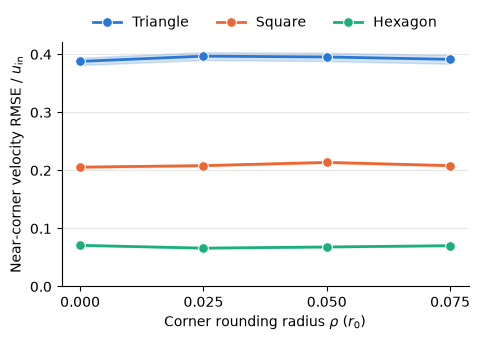
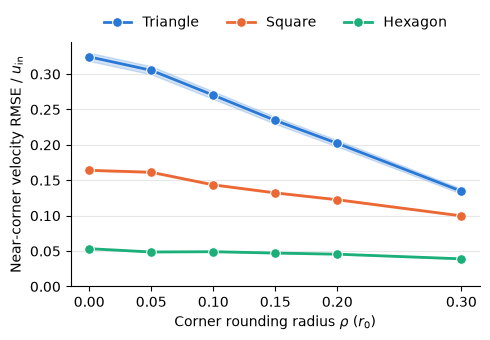
Fix corner region, add rounding-sensitivity analysis and figures
- evaluate.py: anchor the corner region to the sharp polygon's vertices
  (CORNER_R 0.5 r0) and keep only cells fluid for every rho, so all rho
  are scored on identical cells; fix lobed grids being taken for polygon
  grids (they also save phi)
- rounding_sensitivity.py: SDF change (native vs 32x64 branch), true flow
  change, prediction change and true/predicted alignment vs rho
- plotting.py: plot_rounding_sensitivity
- docs: issues log #11, #12, #14 and corner-rounding results
- figures: corner RMSE, shape preview and rounding sensitivity

diff --git a/scripts/rounding_sensitivity.py b/scripts/rounding_sensitivity.py
@@ -1,0 +1,115 @@
+"""How far each rounded polygon is from its sharp (rho = 0) counterpart, per shape:
+
+- sdf_native, sdf_branch: ||z_rho - z_0||_2 of the SDF (r0 units) at the native crop
+  resolution and at the branch resolution the model sees (downsample_sdf). Each is
+  weighted by pixel area (r0^2), so both approximate the same continuous L2 norm
+  and can be compared.
+- flow_change: RMSE / u_in of the true LBM velocity between the two shapes.
+- pred_change: RMSE / u_in of the model's predicted velocity between the two shapes.
+- alignment: cosine similarity <dq, dq_hat> / (|dq| |dq_hat|) between the true velocity
+  change dq = q_rho - q_0 and the predicted change dq_hat; 1 = the model responds in
+  the right direction, 0 = unrelated, -1 = opposite. NaN at rho = 0 (no change).
+
+The flow and prediction changes use the same fixed corner region as vel_corner_rmse
+(scripts.evaluate.corner_mask). Writes data/eval/<dataset>_rounding.csv, one row per
+seed and shape (the SDF and flow columns do not depend on the seed).
+"""
+
+import argparse
+import json
+from pathlib import Path
+
+import numpy as np
+import pandas as pd
+import torch
+
+from operator_ood_flow.model import DeepONet
+from operator_ood_flow.preprocessing import downsample_sdf, load_data
+from scripts.evaluate import corner_mask
+
+ROOT = Path(__file__).resolve().parent.parent
+
+
+def rounding_sensitivity(dataset, seeds=(0, 123, 456, 789, 2026), out=None):
+    path = ROOT / "data" / dataset
+    sdf, masks, fields, coords = load_data(path)
+    with open(str(path) + ".json") as f:
+        u_in = json.load(f)["u_in"]
+    with np.load(str(path) + ".npz") as d:
+        sides, rho, phi = d["sides"].astype(int), d["rho"], d["phi"]
+    C = corner_mask(path, coords, masks)
+    N, H, W = masks.shape
+    vel_true = fields.reshape(N, -1, 3)[..., :2]
+
+    # index of the sharp counterpart (same sides and orientation, rho = 0) of each shape
+    sharp = {(n, ph): i for i, (n, ph, r) in enumerate(zip(sides, phi, rho)) if r == 0}
+    i0 = np.array([sharp[(n, ph)] for n, ph in zip(sides, phi)])
+
+    def rmse(a, b, region):  # velocity RMSE / u_in over each shape's corner region
+        return np.array([
+            np.sqrt(((a[i, region[i]] - b[i, region[i]]) ** 2).sum(-1).mean()) / u_in
+            for i in range(N)
+        ])
+
+    def cosine(a, b, region):  # alignment of two velocity changes over the corner region
+        out = np.full(N, np.nan)
+        for i in range(N):
+            x, y = a[i, region[i]].ravel(), b[i, region[i]].ravel()
+            norm = np.linalg.norm(x) * np.linalg.norm(y)
+            if norm > 0:
+                out[i] = x @ y / norm
+        return out
+
+    rows = []
+    for seed in seeds:
+        ckpt = torch.load(
+            ROOT / "checkpoints" / f"seed{seed}" / "best.pt",
+            map_location="cpu",
+            weights_only=False,
+        )
+        model = DeepONet(**ckpt["model_cfg"])
+        model.load_state_dict(ckpt["model"])
+        model.eval()
+        res = tuple(ckpt["data_cfg"]["sdf_res"])
+        X = downsample_sdf(sdf, res)
+        with torch.no_grad():
+            pred = (model(X, torch.tensor(coords)) * ckpt["std"] + ckpt["mean"]).numpy()
+
+        z = sdf.reshape(N, -1)
+        sdf_native = np.linalg.norm(z - z[i0], axis=1) * np.sqrt(5 / H * 10 / W)
+        sdf_branch = np.linalg.norm(
+            (X - X[i0]).numpy(), axis=1
+        ) * np.sqrt(5 / res[0] * 10 / res[1])  # crop is 5 r0 x 10 r0
+        rows.append(pd.DataFrame({
+            "seed": seed,
+            "index": np.arange(N),
+            "sides": sides,
+            "rho": rho,
+            "phi": phi,
+            "sdf_native": sdf_native,
+            "sdf_branch": sdf_branch,
+            "flow_change": rmse(vel_true, vel_true[i0], C),
+            "pred_change": rmse(pred[..., :2], pred[i0][..., :2], C),
+            "alignment": cosine(
+                vel_true - vel_true[i0], pred[..., :2] - pred[i0][..., :2], C
+            ),
+        }))
+
+    df = pd.concat(rows, ignore_index=True)
+    out = Path(out) if out else ROOT / "data" / "eval" / f"{dataset}_rounding.csv"
+    out.parent.mkdir(parents=True, exist_ok=True)
+    df.to_csv(out, index=False)
+    print(f"saved {out}")
+    cols = ["sdf_native", "sdf_branch", "flow_change", "pred_change", "alignment"]
+    print(df.groupby(["sides", "rho"])[cols].mean().round(4).to_string())
+    return df
+
+
+if __name__ == "__main__":
+    parser = argparse.ArgumentParser(
+        description="SDF, flow and prediction change of rounded polygons vs sharp ones."
+    )
+    parser.add_argument("dataset", help="polygon grid in data/, e.g. ood_polygrid_s2_n180")
+    parser.add_argument("--out", help="CSV path (default: data/eval/<dataset>_rounding.csv)")
+    args = parser.parse_args()
+    rounding_sensitivity(args.dataset, out=args.out)

diff --git a/operator_ood_flow/plotting.py b/operator_ood_flow/plotting.py
@@ -1,5 +1,6 @@
 import matplotlib.pyplot as plt
 import seaborn as sns
+from matplotlib.lines import Line2D
 
 
 def plot_heatmap(grid, metric):
@@ -57,4 +58,64 @@ def plot_corner_rmse(data, metric="vel_corner_rmse"):
     ax.spines[["top", "right"]].set_visible(False)
     ax.legend(title="", ncol=3, loc="lower center", bbox_to_anchor=(0.5, 1.0), frameon=False)
     plt.tight_layout()
+    plt.show()
+
+
+def plot_rounding_sensitivity(rounding, evals):
+    """
+    Three panels against rounding radius rho, one colour per side count:
+    (a) SDF distance from the sharp shape, native (solid) vs branch resolution (dashed);
+    (b) change from the sharp shape near the corners, true LBM flow (solid) vs model
+        prediction (dashed);
+    (c) near-corner prediction error;
+    (d) alignment (cosine similarity) between the true and predicted flow changes.
+    rounding is data/eval/<dataset>_rounding.csv (scripts.rounding_sensitivity), evals the
+    matching *_seeds.csv. Model quantities are averaged per seed, then over seeds (band =
+    +-1 std across seeds). Example usage in notebooks/plots.ipynb
+    """
+    names = {3: "Triangle", 4: "Square", 6: "Hexagon"}
+    colors = dict(zip(names, ["#2a78d6", "#eb6834", "#1baf7a"]))  # fixed order: n = 3, 4, 6
+    cols = ["sdf_native", "sdf_branch", "flow_change", "pred_change", "alignment"]
+    r = rounding.groupby(["sides", "rho", "seed"])[cols].mean().reset_index()
+    e = evals.groupby(["sides", "rho", "seed"])["vel_corner_rmse"].mean().reset_index()
+
+    fig, axes = plt.subplots(2, 2, figsize=(10, 7.5))
+    axes = axes.flat
+    panels = [
+        (axes[0], r, [("sdf_native", "-", "native"), ("sdf_branch", "--", "32×64 branch")],
+         r"SDF distance $\|z_\rho - z_0\|_2$ ($r_0^2$)", "(a) Input change"),
+        (axes[1], r, [("flow_change", "-", "true LBM flow"), ("pred_change", "--", "model prediction")],
+         r"Near-corner velocity change / $u_\mathrm{in}$", "(b) Flow vs prediction change"),
+        (axes[2], e, [("vel_corner_rmse", "-", None)],
+         r"Near-corner velocity RMSE / $u_\mathrm{in}$", "(c) Prediction error"),
+        (axes[3], r[r["rho"] > 0], [("alignment", "-", None)],
+         r"Alignment $C(\rho)$ of true and predicted change", "(d) Direction of the response"),
+    ]
+    for ax, data, series, ylabel, title in panels:
+        for n, name in names.items():
+            for col, style, _ in series:
+                sns.lineplot(
+                    data=data[data["sides"] == n], x="rho", y=col, ax=ax,
+                    color=colors[n], linestyle=style, errorbar="sd",
+                    marker="o", markersize=6, linewidth=2,
+                )
+        ax.set_xticks(sorted(data["rho"].unique()))
+        ax.set_xlabel(r"Corner rounding radius $\rho$ ($r_0$)")
+        ax.set_ylabel(ylabel)
+        ax.set_title(title, loc="left", fontsize=10)
+        ax.set_ylim(*((0, 1) if title.startswith("(d)") else (0, None)))
+        ax.grid(axis="y", alpha=0.3)
+        ax.spines[["top", "right"]].set_visible(False)
+        # line-style key for the two-series panels
+        if len(series) > 1:
+            ax.legend(
+                [Line2D([], [], color="0.3", linestyle=s, linewidth=2) for _, s, _ in series],
+                [label for _, _, label in series], frameon=False, fontsize=8, loc="upper left",
+            )
+
+    fig.legend(
+        [Line2D([], [], color=colors[n], marker="o", linewidth=2) for n in names],
+        list(names.values()), ncol=3, loc="upper center", frameon=False,
+    )
+    plt.tight_layout(rect=(0, 0, 1, 0.95))
     plt.show()

diff --git a/scripts/evaluate.py b/scripts/evaluate.py
@@ -14,22 +14,27 @@ from operator_ood_flow.preprocessing import EVAL_BAND, downsample_sdf, load_data
 ROOT = Path(__file__).resolve().parent.parent
 
 BATCH = 32  # shapes per forward pass
-CORNER_R = 0.3  # corner region: query points within this distance (r0 units) of a vertex
+CORNER_R = 0.5  # corner region: query points within this distance (r0 units) of a vertex
 
 
-def corner_mask(path, coords):
-    """(N, H * W) True within CORNER_R of a rounding centre, for polygon grid datasets
-    (they save sides, rho and phi); None for any other dataset."""
+def corner_mask(path, coords, masks):
+    """(N, H * W) corner region for polygon grid datasets (they save sides, rho and phi);
+    None for any other dataset. The region is anchored to the sharp (rho = 0) polygon's
+    vertices, which don't move with rho, and keeps only cells that are fluid for every
+    rho of the same sides and orientation, so all rho values are scored on the same cells."""
     with np.load(str(path) + ".npz") as d:
-        if "phi" not in d.files:
+        if not {"sides", "rho", "phi"} <= set(d.files):  # lobed grids save phi too
             return None
-        params = zip(d["sides"], d["rho"], d["phi"])
-        return np.array([
-            np.linalg.norm(
-                coords[:, None] - polygon_corners(int(n), rho, phi, 1.0)[None], axis=-1
-            ).min(1) < CORNER_R
-            for n, rho, phi in params
-        ])
+        sides, phi = d["sides"].astype(int), d["phi"]
+    fluid = ~masks.reshape(len(masks), -1)
+    out = np.zeros_like(fluid)
+    for n, ph in set(zip(sides, phi)):
+        group = (sides == n) & (phi == ph)  # same polygon and orientation, every rho
+        near = np.linalg.norm(
+            coords[:, None] - polygon_corners(n, 0.0, ph, 1.0)[None], axis=-1
+        ).min(1) < CORNER_R
+        out[group] = near & fluid[group].all(0)
+    return out
 
 
 def geometry(path):
@@ -87,7 +92,7 @@ def val_all_seeds_(dataset, val=False, seeds=(0, 123, 456, 789, 2026), out=None)
     path = ROOT / "data" / dataset
     sdf, masks, fields, coords = load_data(path)  # same data for every seed
     geo = geometry(path)
-    corners = corner_mask(path, coords)
+    corners = corner_mask(path, coords, masks)
     with open(str(path) + ".json") as f:
         u_in = json.load(f)["u_in"]
     Q = torch.tensor(coords)

diff --git a/docs/issues-log.md b/docs/issues-log.md
@@ -16,9 +16,10 @@ Problems found during the project, what each one affected, and how it was fixed.
 | 8 | Quadrature step mismatch in the S¹ velocity error | Metrics | Fixed |
 | 9 | Per-component errors can't be combined into a velocity error | Metrics | Fixed |
 | 10 | Relative L² is inflated near no-slip walls | Metrics | Worked around |
-| 11 | Corner measurement region shrinks as ρ grows | Metrics | **Open** |
-| 12 | Corner rounding is below the branch input's resolution | Experiment design | **Open** |
+| 11 | Corner measurement region shrinks as ρ grows | Metrics | Fixed |
+| 12 | Corner rounding is below the branch input's resolution | Experiment design | Fixed (data); model insensitivity found |
 | 13 | Corrupted header in an evaluation CSV | Data handling | Fixed |
+| 14 | Corner metric crashed on the lobed grid | Metrics | Fixed |
 
 ---
 
@@ -78,16 +79,30 @@ Problems found during the project, what each one affected, and how it was fixed.
 - **Issue:** velocity goes to zero at the wall, so the denominator of a relative error over a small near-wall region is small. Wall-band and corner relative errors are therefore inflated, and hard to compare between regions and shapes.
 - **Workaround:** the corner metric is an absolute RMSE divided by $u_\mathrm{in}$ (`vel_corner_rmse`), not a relative error. The existing `*_wall` relative errors still have this issue and should be read with it in mind.
 
-### 11. Corner measurement region shrinks as ρ grows — Open
+### 11. Corner measurement region shrinks as ρ grows — Fixed
 - **What happened:** `vel_corner_rmse` is measured over fluid cells within 0.3 $r_0$ of each rounding centre. As the rounding radius ρ grows, the body fills more of that region; for triangles it goes from 280 to 221 cells. Comparisons across ρ are therefore made over different regions.
 - **Impact:** with the shrinking region, triangle error looks flat in ρ (0.388 → 0.391). On a region fixed across ρ, it falls by 11% (0.435 → 0.386, seed 0).
-- **Planned fix:** define the region as cells that are fluid for every ρ of the same polygon and orientation. See [corner rounding](corner-rounding.md).
+- **Worse on the wider grid:** on `ood_polygrid_s2_n180`, ρ goes up to 0.3. The region (radius 0.3 $r_0$ around the rounding centre) falls from 280 to 101 cells for triangles at ρ = 0.2. At ρ = 0.3 it is empty, because the curved edge sits exactly 0.3 $r_0$ from the centre, so `vel_corner_rmse` is NaN there. The other columns were unaffected.
+- **Fix:** `corner_mask` in `scripts/evaluate.py` now anchors the region to the vertices of the sharp (ρ = 0) polygon, which don't move with ρ, with `CORNER_R` raised to 0.5 $r_0$. It keeps only cells that are fluid for every ρ of the same side count and orientation.
+- **Verification:** within each polygon and orientation, the region is identical across all ρ values: about 780 cells for triangles, 910–970 for squares and 1210–1250 for hexagons. Vertex regions don't overlap, since the closest vertices (hexagon) are 1.1 $r_0$ apart. There are no NaNs. The ρ = 0 values agree between the two polygon grids, which contain the same sharp shapes. Both polygon evaluations were re-run, and their other columns were unchanged.
+- **Effect on results:** these numbers come from a different region, so they replace all earlier `vel_corner_rmse` values. Triangle error now falls clearly with rounding, from 0.324 at ρ = 0 to 0.135 at ρ = 0.3 (mean of 5 seeds, std across seeds ≤ 0.006). See [corner rounding](corner-rounding.md).
 
-### 12. Corner rounding is below the branch input's resolution — Open
+### 12. Corner rounding is below the branch input's resolution — Fixed (data); model insensitivity found
 - **What happened:** one pixel of the 32 × 64 branch SDF is 0.156 $r_0$ across, about twice the largest rounding radius tested (0.075 $r_0$). Rounding changes the SDF input about 20× less than rotating the shape does. The model's near-corner prediction moves by at most 0.005 $u_\mathrm{in}$ between ρ = 0 and 0.075.
 - **Impact:** the polygon grid can't test how sensitive the model is to corner sharpness. The small error drop in #11 comes from the true flow getting smoother, not from the model responding to the rounding.
-- **Planned fix:** a new polygon grid with ρ up to about 0.3 $r_0$, which is at least two SDF pixels and 6 LBM cells at s = 2. See [corner rounding](corner-rounding.md).
+- **Partial fix:** a new polygon grid, `ood_polygrid_s2_n180`, extends ρ to 0.3 $r_0$, which is about 2 SDF pixels and 6 LBM cells at s = 2. It has ρ ∈ {0, 0.05, 0.1, 0.15, 0.2, 0.3} for 3, 4 and 6 sides at 10 orientations, generated from commit `5e83718` with `notebooks/generate_polygrid_rho.ipynb`.
+- **Check on the wider grid** (`scripts/rounding_sensitivity.py`, all 5 seeds, written to `data/eval/ood_polygrid_s2_n180_rounding.csv`): the change from each sharp shape to its rounded version, for triangles at ρ = 0.3:
+  - **SDF input:** 0.787 $r_0^2$ at native resolution and 0.786 at the 32 × 64 branch resolution (both are $\|z_\rho - z_0\|_2$ weighted by pixel area). Every side count and ρ agrees to within 1%.
+  - **True near-corner flow:** changes by 0.232 $u_\mathrm{in}$.
+  - **Model's near-corner prediction:** changes by only 0.019 $u_\mathrm{in}$, about 12× less.
+- **Conclusion:** at this range, the input resolution is not the bottleneck, at least by this global measure. The 32 × 64 input preserves the rounding change, but the model barely responds to it. The falling near-corner error (#11) comes from the true flow moving toward the model's nearly fixed prediction, not from the model tracking the geometry.
+- **Caveat:** the global SDF L² is dominated by smooth, far-reaching changes, because keeping the area fixed moves the whole boundary. It may therefore miss whether fine detail at the corner itself survives downsampling. Comparing the SDFs only within the corner region would be a stricter test. See [corner rounding](corner-rounding.md).
 
 ### 13. Corrupted header in an evaluation CSV — Fixed
 - **What happened:** `data/eval/ood_polygrid_s2_n120_seeds.csv` had a stray backtick at the start of its header, so its first column was named `` `seed `` and grouping by `seed` failed. `evaluate.py` doesn't write it, so it was an accidental manual edit.
 - **Fix:** the file was regenerated with `scripts.evaluate`. The evaluation CSVs are generated outputs and should only be changed by re-running the evaluation, not by editing them by hand.
+
+### 14. Corner metric crashed on the lobed grid — Fixed
+- **What happened:** `corner_mask` in `scripts/evaluate.py` treated any dataset that saves `phi` as a polygon grid. The lobed grid also saves `phi` (its orientation), so evaluating `ood_lobedgrid_s2_n180` failed with `KeyError: 'sides is not a file in the archive'`.
+- **Impact:** evaluation stopped with an error, so no results were wrong.
+- **Fix:** the check now requires `sides`, `rho` and `phi` together. The lobed grid was re-evaluated with `vel_corner_rmse` = NaN, and its existing columns were unchanged. The polygon grid still gets a corner mask, and the in-distribution test set still doesn't.

diff --git a/docs/corner-rounding.md b/docs/corner-rounding.md
@@ -2,7 +2,27 @@
 
 [← Back to README](../README.md)
 
-**Status:** preliminary (2026-11-07). The rounding range tested is too small to count as a real shift; see [Next steps](#next-steps).
+**Status:** preliminary (2026-11-07). The first grid's rounding range was too small to count as a real shift, and its corner region shrank as ρ grew. Both have been fixed; see [Update: fixed region and wider ρ range](#update-fixed-region-and-wider-ρ-range). The original analysis below is kept for the record, but its numbers are superseded.
+
+## Update: fixed region and wider ρ range
+
+- **Metric (current):** RMSE of the velocity vector divided by $u_\mathrm{in}$, over fluid cells within `CORNER_R` = 0.5 $r_0$ of the **sharp** polygon's vertices. Only cells that are fluid for every ρ of the same polygon and orientation are used, so every ρ is scored on identical cells ([issues log #11](issues-log.md)).
+- **Data:** `ood_polygrid_s2_n120` (ρ up to 0.075) and `ood_polygrid_s2_n180` (ρ ∈ {0, 0.05, 0.1, 0.15, 0.2, 0.3}). Both have 3, 4 and 6 sides at 10 orientations.
+
+Near-corner velocity RMSE / $u_\mathrm{in}$ on `ood_polygrid_s2_n180`, mean over 5 seeds (std across seeds ≤ 0.006):
+
+| | ρ = 0 | 0.05 | 0.1 | 0.15 | 0.2 | 0.3 |
+|---|---|---|---|---|---|---|
+| Triangle | 0.324 | 0.305 | 0.270 | 0.235 | 0.202 | 0.135 |
+| Square | 0.164 | 0.161 | 0.144 | 0.132 | 0.123 | 0.100 |
+| Hexagon | 0.053 | 0.049 | 0.049 | 0.047 | 0.046 | 0.039 |
+
+The ρ = 0 values match those from `ood_polygrid_s2_n120`, which contains the same sharp shapes.
+
+- **Rounding now lowers the error clearly.** Triangle error falls by 58% from ρ = 0 to 0.3, square by 39% and hexagon by 26%. Rounding by ρ = 0.3 matters about as much as one extra side: a triangle rounded with ρ = 0.3 (0.135) is better than a sharp square (0.164), but still worse than a square rounded with ρ = 0.3 (0.100).
+- **The drop comes from the true flow, not from the model.** Rounding a triangle to ρ = 0.3 changes the true near-corner flow by 0.232 $u_\mathrm{in}$, but the model's prediction by only 0.019 $u_\mathrm{in}$. Meanwhile the 32 × 64 branch input keeps the full SDF change (0.786 vs 0.787 $r_0^2$ at native resolution). So the model receives a clearly different input and barely responds to it. This suggests the limit is the model's insensitivity to the input rather than the input's resolution ([issues log #12](issues-log.md), including a caveat about the global SDF norm).
+- **The model responds in roughly the right direction, but far too weakly.** The alignment $C(\rho) = \langle \Delta q, \Delta\hat q\rangle / (\|\Delta q\|\|\Delta\hat q\|)$ between the true and predicted near-corner velocity changes is 0.46–0.64 for every side count and ρ (std across seeds ≤ 0.05). That is clearly positive, though some individual shapes go as low as −0.39. The component of the response along the true change, $C\,\|\Delta\hat q\| / \|\Delta q\|$, is about 0.04 for triangles at ρ = 0.3, 0.05 for squares and 0.18 for hexagons. So the model reproduces only about 4–18% of the true change. This looks like a damped response rather than a wrong one, which is relevant to the spectral-bias (NTK) phase of the [experiment design](experiment_design.md).
+- **Figure:** `plotting.plot_rounding_sensitivity` shows (a) the SDF change at native and branch resolution, (b) the true flow change vs the prediction change, (c) the near-corner error and (d) the alignment $C(\rho)$, all against ρ. The data comes from `uv run python -m scripts.rounding_sensitivity ood_polygrid_s2_n180`.
 
 ## Setup
 
